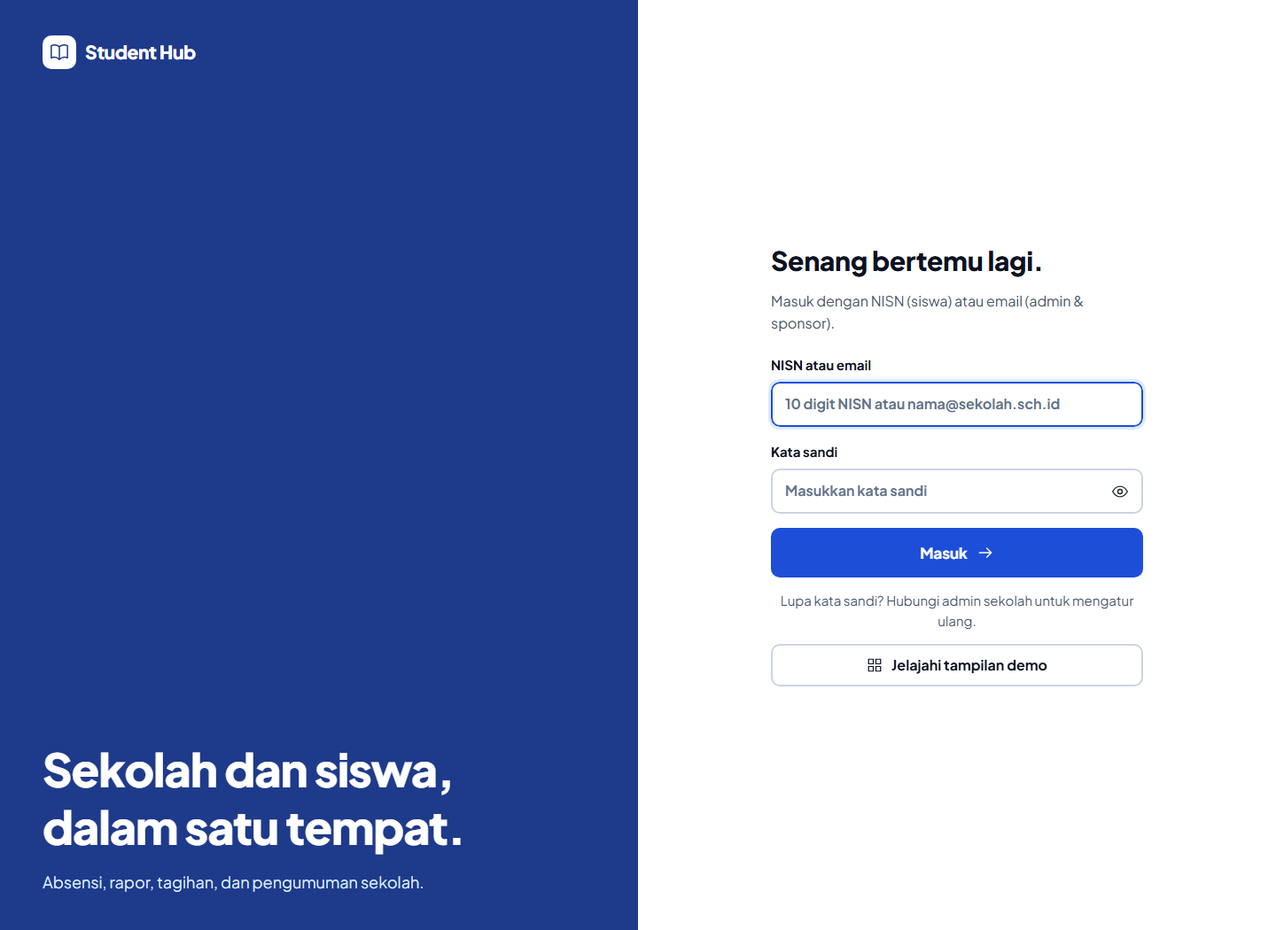
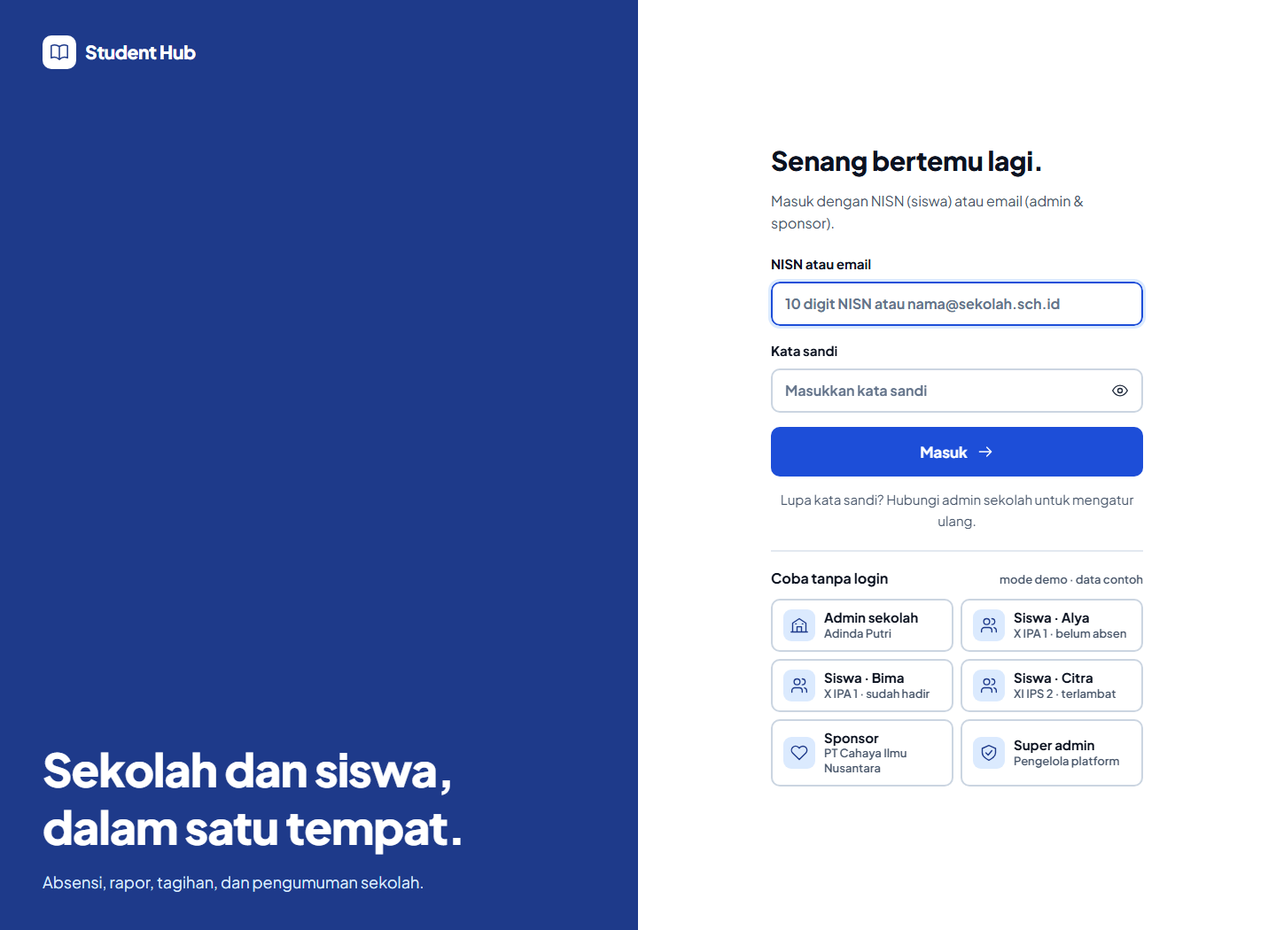
feat: tombol demo sekali klik per peran di halaman login (admin sekolah, 3 siswa, sponsor, super admin)
Persona demo disimulasikan di browser tanpa akun & tanpa menyentuh database. Tiga siswa memiliki status absen berbeda (belum absen, hadir, terlambat) agar alur absensi mudah didemokan. Persona dapat diganti dari banner demo.

Changed region(s): [[0.5938, 0.2743, 0.9062, 0.8533], [0.5938, 0.2133, 0.8438, 0.2438], [0.5938, 0.1524, 0.8125, 0.1829]]

diff --git a/src/components/hub/hub.tsx b/src/components/hub/hub.tsx
@@ -2,9 +2,10 @@
 import Link from "next/link";
 import { useEffect, useState } from "react";
 import { api } from "@/lib/frontend/api";
+import { DEMO_PERSONAS, demoPersona, demoPersonaForUser } from "@/lib/frontend/demo-personas";
 import { modulesFor, roleLabels } from "@/lib/frontend/modules";
 import { initials } from "@/lib/frontend/format";
-import type { Identity, Module, Role } from "@/lib/frontend/types";
+import type { Identity, Module } from "@/lib/frontend/types";
 import { HubContext } from "./context";
 import { Brand, Icon } from "./icon";
 import { Login } from "./login";
@@ -13,7 +14,6 @@ import { StudentHome } from "./student-home";
 import { AttendancePage } from "./attendance/attendance-page";
 import { Workspace } from "./workspace";
 
-const demoIdentity: Identity = { user: { id: "demo", name: "Adinda Putri", email: "adinda@sekolah.sch.id", role: "SCHOOL_ADMIN", mustChangePassword: false, totpEnrollmentRequired: false }, school: { id: "demo", name: "SMA Cendekia Nusantara", timezone: "WIB" }, sponsor: null, permissions: [] };
 function useNavigationData(me: Identity | null, demo: boolean) {
   const [schools, setSchools] = useState<{ id: string; name: string }[]>([]);
   const [unread, setUnread] = useState(0);
@@ -37,8 +37,8 @@ export function Hub({ section }: { section: string }) {
   async function reloadMe() { const result = await api("/auth/me"); setMe(result.data as Identity); setReady(true); }
   useEffect(() => {
     let active = true;
-    const storedRole = sessionStorage.getItem("studenthub_demo_role") as Role | null;
-    if (sessionStorage.getItem("studenthub_demo") === "true") { Promise.resolve().then(() => { if (active) { setDemo(true); setMe({ ...demoIdentity, user: { ...demoIdentity.user, role: storedRole && storedRole in roleLabels ? storedRole : "SCHOOL_ADMIN" } }); setReady(true); } }); }
+    const storedPersona = sessionStorage.getItem("studenthub_demo_role");
+    if (sessionStorage.getItem("studenthub_demo") === "true") { Promise.resolve().then(() => { if (active) { setDemo(true); setMe(demoPersona(storedPersona).identity); setReady(true); } }); }
     else api("/auth/me").then(r => { if (active) setMe(r.data as Identity); }).catch(() => {}).finally(() => { if (active) setReady(true); });
     return () => { active = false; };
   }, []);
@@ -49,7 +49,7 @@ export function Hub({ section }: { section: string }) {
     return () => window.removeEventListener("studenthub:expired", expired);
   }, []);
   useEffect(() => { if (!notice) return; const timer = setTimeout(() => setNotice(""), 4500); return () => clearTimeout(timer); }, [notice]);
-  function startDemo() { sessionStorage.setItem("studenthub_demo", "true"); setDemo(true); setMe(demoIdentity); }
+  function startDemo(key: string) { sessionStorage.setItem("studenthub_demo", "true"); sessionStorage.setItem("studenthub_demo_role", key); setDemo(true); setMe(demoPersona(key).identity); }
   async function logout() {
     try { if (!demo) await api("/auth/logout", { method: "POST" }); sessionStorage.removeItem("studenthub_demo"); sessionStorage.removeItem("studenthub_demo_role"); sessionStorage.removeItem("studenthub_school"); setDemo(false); setMe(null); setSchoolId(""); }
     catch (e) { setNotice(e instanceof Error ? e.message : "Gagal keluar."); }
@@ -64,10 +64,10 @@ export function Hub({ section }: { section: string }) {
     {menu && <button className="sidebar-overlay" aria-label="Tutup navigasi" onClick={() => setMenu(false)} />}
     <Sidebar me={me} modules={modules} current={current} home={home} unread={unread} open={menu} onNavigate={() => setMenu(false)} onLogout={logout} />
     <div className="main-shell"><header className="topbar"><button className="icon-button mobile-menu" aria-label="Buka navigasi" onClick={() => setMenu(true)}><Icon name="menu" /></button><strong className="topbar-title">{current?.title ?? "Beranda"}</strong><div className="topbar-tools"><Link className="icon-button notification-button" href="/hub/notifications" aria-label={unread > 0 ? `Notifikasi, ${unread} belum dibaca` : "Notifikasi"}><Icon name="bell" />{unread > 0 && <i />}</Link><Link className="avatar small" href="/hub/security" aria-label="Keamanan akun">{initials(me.user.name)}</Link></div></header>
-      <main id="main-content" className="page-content">{demo && <DemoBanner me={me} onRole={role => { sessionStorage.setItem("studenthub_demo_role", role); setMe({ ...demoIdentity, user: { ...demoIdentity.user, role } }); }} onExit={logout} />}
+      <main id="main-content" className="page-content">{demo && <DemoBanner me={me} onPersona={key => { sessionStorage.setItem("studenthub_demo_role", key); setMe(demoPersona(key).identity); }} onExit={logout} />}
       {me.user.role === "SUPER_ADMIN" && current?.paths.some(p => p.startsWith("/school/")) && <label className="scope-select">Sekolah yang dikelola<select value={schoolId} onChange={e => { setSchoolId(e.target.value); sessionStorage.setItem("studenthub_school", e.target.value); }}><option value="">Pilih sekolah terlebih dahulu</option>{schools.map(s => <option key={s.id} value={s.id}>{s.name}</option>)}</select></label>}
       {restricted && <div className="info-message">{me.user.mustChangePassword ? "Sebelum melanjutkan, ganti kata sandi awal untuk mengamankan akunmu." : "Aktifkan autentikasi dua langkah terlebih dahulu untuk mengamankan akun super admin."}</div>}
-      {current?.key === "my-attendance" ? <AttendancePage /> : current ? <Workspace key={`${current.key}-${schoolId}-${demo}-${me.user.role}`} module={current} /> : home ? me.user.role === "STUDENT" ? <StudentHome /> : <Dashboard /> : <div className="empty-state"><Icon name="search" size={35} /><h2>Halaman tidak ditemukan</h2><Link className="button primary" href="/hub">Kembali ke beranda</Link></div>}
+      {current?.key === "my-attendance" ? <AttendancePage key={me.user.id} /> : current ? <Workspace key={`${current.key}-${schoolId}-${demo}-${me.user.id}`} module={current} /> : home ? me.user.role === "STUDENT" ? <StudentHome key={me.user.id} /> : <Dashboard key={me.user.id} /> : <div className="empty-state"><Icon name="search" size={35} /><h2>Halaman tidak ditemukan</h2><Link className="button primary" href="/hub">Kembali ke beranda</Link></div>}
       </main></div>
     {notice && <div className="toast" role="status">{notice}</div>}
   </div></HubContext.Provider>;
@@ -79,6 +79,6 @@ function Sidebar({ me, modules, current, home, unread, open, onNavigate, onLogou
     <nav aria-label="Navigasi utama"><Link onClick={onNavigate} className={`nav-item ${home ? "active" : ""}`} href="/hub" aria-current={home ? "page" : undefined}><Icon name="grid" />Beranda</Link>{groups.map(group => <div className="nav-group" key={group}><span className="nav-label">{group}</span>{modules.filter(m => m.group === group).map(m => <Link key={m.key} onClick={onNavigate} className={`nav-item ${current?.key === m.key ? "active" : ""}`} aria-current={current?.key === m.key ? "page" : undefined} href={`/hub/${m.key}`}><Icon name={m.icon} /><span>{m.title}</span>{m.key === "notifications" && unread > 0 && <b className="count-badge">{unread}</b>}</Link>)}</div>)}</nav>
     <button className="account-button" onClick={() => void onLogout()}><span className="avatar">{initials(me.user.name)}</span><span><strong>{me.user.name}</strong><small>Keluar dari akun</small></span><Icon name="logout" size={18} /></button></aside>;
 }
-function DemoBanner({ me, onRole, onExit }: { me: Identity; onRole: (role: Role) => void; onExit: () => Promise<void> }) {
-  return <div className="demo-banner"><span><Icon name="spark" size={16} /> Mode demo · data contoh</span><select aria-label="Peran demo" value={me.user.role} onChange={e => onRole(e.target.value as Role)}>{Object.entries(roleLabels).map(([value, text]) => <option key={value} value={value}>{text}</option>)}</select><button className="text-button" onClick={() => void onExit()}>Keluar demo <Icon name="arrow" size={15} /></button></div>;
+function DemoBanner({ me, onPersona, onExit }: { me: Identity; onPersona: (key: string) => void; onExit: () => Promise<void> }) {
+  return <div className="demo-banner"><span><Icon name="spark" size={16} /> Mode demo · data contoh</span><select aria-label="Peran demo" value={demoPersonaForUser(me.user.id)?.key ?? "SCHOOL_ADMIN"} onChange={e => onPersona(e.target.value)}>{DEMO_PERSONAS.map(p => <option key={p.key} value={p.key}>{p.label}</option>)}</select><button className="text-button" onClick={() => void onExit()}>Keluar demo <Icon name="arrow" size={15} /></button></div>;
 }

diff --git a/tests/browser/frontend.spec.ts b/tests/browser/frontend.spec.ts
@@ -14,7 +14,7 @@ async function mockSession(page: Page) {
 test("demo: navigasi, pencarian, detail, formulir, dan penolakan simpan", async ({ page }) => {
   const errors: string[] = []; page.on("pageerror", e => errors.push(e.message));
   await page.goto("/");
-  await page.getByRole("button", { name: "Jelajahi tampilan demo" }).click();
+  await page.getByRole("button", { name: "Masuk demo sebagai Admin sekolah" }).click();
   await expect(page.getByRole("heading", { name: /Selamat datang/ })).toBeVisible();
   await page.getByRole("navigation").getByRole("link", { name: "Data siswa" }).click();
   await expect(page.getByText("Alya Putri Ramadhani", { exact: true })).toBeVisible();
@@ -34,7 +34,7 @@ test("mobile: login, dasbor, menu, dan formulir tanpa luapan horizontal", async 
   await page.setViewportSize({ width: 390, height: 844 });
   await page.goto("/");
   await expect(page.getByRole("heading", { name: "Senang bertemu lagi." })).toBeVisible();
-  await page.getByRole("button", { name: "Jelajahi tampilan demo" }).click();
+  await page.getByRole("button", { name: "Masuk demo sebagai Admin sekolah" }).click();
   await expect(page.getByRole("heading", { name: /Selamat datang/ })).toBeVisible();
   expect(await page.evaluate(() => document.documentElement.scrollWidth <= innerWidth)).toBe(true);
   await page.getByRole("button", { name: "Buka navigasi" }).click();
@@ -46,7 +46,7 @@ test("mobile: login, dasbor, menu, dan formulir tanpa luapan horizontal", async 
   await page.screenshot({ path: "test-results/frontend-mobile-form.png", fullPage: true });
 });
 test("peran demo dipertahankan ketika pindah halaman", async ({ page }) => {
-  await page.goto("/"); await page.getByRole("button", { name: "Jelajahi tampilan demo" }).click();
+  await page.goto("/"); await page.getByRole("button", { name: "Masuk demo sebagai Admin sekolah" }).click();
   for (const [role, menu, heading] of [["SPONSOR", "Kampanye saya", "Kampanye saya"], ["STUDENT", "Rapor saya", "Rapor saya"], ["SUPER_ADMIN", "Sekolah", "Sekolah"]]) {
     await page.getByRole("combobox", { name: "Peran demo" }).selectOption(role!);
     await page.getByRole("navigation").getByRole("link", { name: menu!, exact: true }).click();
@@ -115,7 +115,7 @@ test("siswa (HP): beranda ringkas, alur absen wajib izin lokasi & kamera sebelum
   const context = await browser.newContext({ viewport: { width: 390, height: 844 }, userAgent: "Mozilla/5.0 (Linux; Android 14) AppleWebKit/537.36 Chrome/140.0 Mobile Safari/537.36" });
   const page = await context.newPage();
   await page.goto("/");
-  await page.getByRole("button", { name: "Jelajahi tampilan demo" }).click();
+  await page.getByRole("button", { name: "Masuk demo sebagai Admin sekolah" }).click();
   await page.getByRole("combobox", { name: "Peran demo" }).selectOption("STUDENT");
   await page.goto("/hub");
   await expect(page.getByRole("navigation", { name: "Menu siswa" }).getByRole("link")).toHaveCount(6);
@@ -129,4 +129,16 @@ test("siswa (HP): beranda ringkas, alur absen wajib izin lokasi & kamera sebelum
   await flow.getByRole("button", { name: "Tutup absensi" }).click();
   await expect(page.getByRole("heading", { name: "Riwayat", exact: false })).toBeVisible();
   await context.close();
+});
+test("login: tombol demo per persona (admin, 3 siswa, sponsor, super admin) langsung masuk ke peran itu", async ({ page }) => {
+  const cases: [string, RegExp | string][] = [["Admin sekolah", /Selamat datang, Adinda/], ["Siswa · Alya", "Alya Putri Ramadhani"], ["Siswa · Bima", "Bima Aditya Pratama"], ["Siswa · Citra", "Citra Ayu Lestari"], ["Sponsor", /Selamat datang, Rizky/], ["Super admin", /Selamat datang, Dimas/]];
+  for (const [label, heading] of cases) {
+    await page.goto("/");
+    await page.getByRole("button", { name: `Masuk demo sebagai ${label}` }).click();
+    await expect(page.getByRole("heading", { level: 1, name: heading })).toBeVisible();
+    await page.getByRole("button", { name: "Keluar demo" }).click();
+  }
+  await page.goto("/");
+  await page.getByRole("button", { name: "Masuk demo sebagai Siswa · Bima" }).click();
+  await expect(page.getByText("Sudah absen pukul 06:42")).toBeVisible();
 });

diff --git a/src/lib/frontend/demo-personas.ts b/src/lib/frontend/demo-personas.ts
@@ -1,0 +1,51 @@
+import type { TodayDto } from "@/lib/attendance/student-schemas";
+import { demoToday } from "./demo";
+import type { Identity, Role } from "./types";
+
+/**
+ * Persona mode demo: "masuk" sebagai peran tertentu tanpa akun & tanpa kata sandi. Semua data contoh
+ * disimulasikan di browser; tidak ada permintaan ke database. Nama & sekolah fiktif.
+ */
+export interface DemoPersona {
+  readonly key: string;
+  readonly label: string;
+  readonly caption: string;
+  readonly identity: Identity;
+  readonly className?: string;
+  readonly todayRecord?: TodayDto["record"];
+}
+
+const SCHOOL = { id: "demo-school", name: "SMA Cendekia Nusantara", timezone: "WIB" };
+
+function persona(key: string, label: string, caption: string, role: Role, name: string, extra: Partial<Identity> & Pick<DemoPersona, "className" | "todayRecord"> = {}): DemoPersona {
+  const { className, todayRecord, ...identity } = extra;
+  return {
+    key, label, caption, className, todayRecord,
+    identity: { user: { id: `demo:${key}`, name, email: null, role, mustChangePassword: false, totpEnrollmentRequired: false }, school: role === "SCHOOL_ADMIN" || role === "STUDENT" ? SCHOOL : null, sponsor: null, permissions: [], ...identity },
+  };
+}
+
+export const DEMO_PERSONAS: readonly DemoPersona[] = [
+  persona("SCHOOL_ADMIN", "Admin sekolah", "Adinda Putri", "SCHOOL_ADMIN", "Adinda Putri"),
+  persona("STUDENT", "Siswa · Alya", "X IPA 1 · belum absen", "STUDENT", "Alya Putri Ramadhani", { className: "X IPA 1" }),
+  persona("STUDENT_BIMA", "Siswa · Bima", "X IPA 1 · sudah hadir", "STUDENT", "Bima Aditya Pratama", { className: "X IPA 1", todayRecord: { id: "demo-att-bima", status: "HADIR", source: "CHECKIN", checkInTimeLocal: "06:42", lateMinutes: null } }),
+  persona("STUDENT_CITRA", "Siswa · Citra", "XI IPS 2 · terlambat", "STUDENT", "Citra Ayu Lestari", { className: "XI IPS 2", todayRecord: { id: "demo-att-citra", status: "TERLAMBAT", source: "CHECKIN", checkInTimeLocal: "07:31", lateMinutes: 31 } }),
+  persona("SPONSOR", "Sponsor", "PT Cahaya Ilmu Nusantara", "SPONSOR", "Rizky Pratama", { sponsor: { id: "demo-sponsor", companyName: "PT Cahaya Ilmu Nusantara" } }),
+  persona("SUPER_ADMIN", "Super admin", "Pengelola platform", "SUPER_ADMIN", "Dimas Wicaksono"),
+];
+
+/** Persona berdasarkan kunci; kunci tak dikenal -> admin sekolah. */
+export function demoPersona(key: string | null): DemoPersona {
+  return DEMO_PERSONAS.find(p => p.key === key) ?? DEMO_PERSONAS[0]!;
+}
+
+export function demoPersonaForUser(userId: string): DemoPersona | undefined {
+  return DEMO_PERSONAS.find(p => p.identity.user.id === userId);
+}
+
+/** Status absen hari ini untuk siswa demo (tiap siswa punya kondisi berbeda). */
+export function demoTodayFor(key: string): TodayDto {
+  const base = demoToday as unknown as TodayDto;
+  const record = demoPersona(key).todayRecord ?? null;
+  return record ? { ...base, record, canCheckIn: false, blockReason: "ALREADY_CHECKED_IN" } : base;
+}

diff --git a/src/components/hub/login.tsx b/src/components/hub/login.tsx
@@ -2,9 +2,10 @@
 import { useState, type FormEvent } from "react";
 import { api, ApiError } from "@/lib/frontend/api";
 import { loginDeviceId } from "@/lib/frontend/attendance";
+import { DEMO_PERSONAS } from "@/lib/frontend/demo-personas";
 import { Brand, Icon } from "./icon";
 
-export function Login({ onLogin, onDemo }: { onLogin: () => Promise<void>; onDemo: () => void }) {
+export function Login({ onLogin, onDemo }: { onLogin: () => Promise<void>; onDemo: (personaKey: string) => void }) {
   const [busy, setBusy] = useState(false);
   const [error, setError] = useState("");
   const [totp, setTotp] = useState(false);
@@ -28,6 +29,15 @@ export function Login({ onLogin, onDemo }: { onLogin: () => Promise<void>; onDem
       <label className="field">Kata sandi<span className="password-input"><input name="password" type={visible ? "text" : "password"} autoComplete="current-password" placeholder="Masukkan kata sandi" required /><button type="button" aria-label={visible ? "Sembunyikan kata sandi" : "Tampilkan kata sandi"} onClick={() => setVisible(!visible)}><Icon name="eye" size={20} /></button></span></label>
       {totp && <label className="field">Kode autentikator<input name="totpCode" inputMode="numeric" pattern="[0-9]{6}" maxLength={6} placeholder="6 digit kode verifikasi" autoComplete="one-time-code" required /></label>}
       {error && <div className="error-message" role="alert">{error}</div>}<button className="button primary block large" disabled={busy}>{busy ? "Sedang masuk…" : "Masuk"}<Icon name="arrow" size={20} /></button>
-    </form><p className="login-help">Lupa kata sandi? Hubungi admin sekolah untuk mengatur ulang.</p><button className="button secondary block" onClick={onDemo}><Icon name="grid" size={18} />Jelajahi tampilan demo</button></div></section>
+    </form><p className="login-help">Lupa kata sandi? Hubungi admin sekolah untuk mengatur ulang.</p><DemoPicker onDemo={onDemo} /></div></section>
   </main>;
+}
+
+const PERSONA_ICONS: Record<string, string> = { SCHOOL_ADMIN: "school", STUDENT: "users", SPONSOR: "heart", SUPER_ADMIN: "shield" };
+
+/** Masuk demo sekali klik (tanpa kata sandi, data contoh di browser). */
+function DemoPicker({ onDemo }: { onDemo: (personaKey: string) => void }) {
+  return <section className="demo-picker" aria-labelledby="demo-title"><h3 id="demo-title">Coba tanpa login <small>mode demo · data contoh</small></h3>
+    <div className="demo-grid">{DEMO_PERSONAS.map(p => <button key={p.key} type="button" className="demo-persona" aria-label={`Masuk demo sebagai ${p.label}`} onClick={() => onDemo(p.key)}><span className="demo-icon"><Icon name={PERSONA_ICONS[p.identity.user.role] ?? "users"} size={20} /></span><span><strong>{p.label}</strong><small>{p.caption}</small></span></button>)}</div>
+  </section>;
 }

diff --git a/src/components/hub/student-home.tsx b/src/components/hub/student-home.tsx
@@ -4,7 +4,8 @@ import { useEffect, useState } from "react";
 import type { TodayDto } from "@/lib/attendance/student-schemas";
 import { api } from "@/lib/frontend/api";
 import { schoolClock, todayHeadline, type Headline } from "@/lib/frontend/attendance";
-import { demoProfile, demoRows, demoToday } from "@/lib/frontend/demo";
+import { demoRows } from "@/lib/frontend/demo";
+import { demoPersonaForUser, demoTodayFor } from "@/lib/frontend/demo-personas";
 import { display, initials } from "@/lib/frontend/format";
 import type { Row } from "@/lib/frontend/types";
 import { useHub } from "./context";
@@ -24,14 +25,14 @@ const TILES = [
 ] as const;
 
 function useStudentHome() {
-  const { demo } = useHub();
+  const { demo, me } = useHub();
   const [className, setClassName] = useState<string | null>(null);
   const [headline, setHeadline] = useState<Headline | null>(null);
   const [news, setNews] = useState<Row[] | null>(null);
   useEffect(() => {
     let active = true;
     if (demo) {
-      Promise.resolve().then(() => { if (!active) return; setClassName(demoProfile.className); setHeadline(todayHeadline(demoToday)); setNews((demoRows("/notifications") as Row[]).slice(0, 3)); });
+      Promise.resolve().then(() => { if (!active) return; const persona = demoPersonaForUser(me.user.id); setClassName(persona?.className ?? null); setHeadline(todayHeadline(demoTodayFor(persona?.key ?? "STUDENT"))); setNews((demoRows("/notifications") as Row[]).slice(0, 3)); });
       return () => { active = false; };
     }
     api("/student/profile").then(r => { if (active) setClassName((r.data as { className: string | null }).className); }).catch(() => {});
@@ -39,7 +40,7 @@ function useStudentHome() {
       .catch(() => { if (active) setHeadline({ tone: "neutral", title: "Absen lewat HP", note: "Buka Student Hub dari HP untuk absen." }); });
     api("/notifications?limit=3").then(r => { if (active) setNews(r.data as Row[]); }).catch(() => { if (active) setNews([]); });
     return () => { active = false; };
-  }, [demo]);
+  }, [demo, me.user.id]);
   return { className, headline, news };
 }
 

diff --git a/src/lib/frontend/demo-personas.test.ts b/src/lib/frontend/demo-personas.test.ts
@@ -1,0 +1,33 @@
+import { test } from "node:test";
+import assert from "node:assert/strict";
+import { DEMO_PERSONAS, demoPersona, demoPersonaForUser, demoTodayFor } from "./demo-personas";
+
+test("persona demo: admin sekolah, tiga siswa, sponsor, super admin — kunci unik", () => {
+  const roles = DEMO_PERSONAS.map(p => p.identity.user.role);
+  assert.deepEqual(roles, ["SCHOOL_ADMIN", "STUDENT", "STUDENT", "STUDENT", "SPONSOR", "SUPER_ADMIN"]);
+  assert.equal(new Set(DEMO_PERSONAS.map(p => p.key)).size, DEMO_PERSONAS.length);
+});
+
+test("identitas persona sesuai peran: sekolah untuk admin/siswa, perusahaan untuk sponsor", () => {
+  assert.equal(demoPersona("SPONSOR").identity.sponsor?.companyName, "PT Cahaya Ilmu Nusantara");
+  assert.equal(demoPersona("SPONSOR").identity.school, null);
+  assert.equal(demoPersona("SUPER_ADMIN").identity.school, null);
+  assert.equal(demoPersona("STUDENT").identity.school?.name, "SMA Cendekia Nusantara");
+});
+
+test("kunci tak dikenal / kosong jatuh ke admin sekolah; persona dapat ditemukan dari id user", () => {
+  assert.equal(demoPersona(null).key, "SCHOOL_ADMIN");
+  assert.equal(demoPersona("TIDAK_ADA").key, "SCHOOL_ADMIN");
+  const bima = demoPersona("STUDENT_BIMA");
+  assert.equal(demoPersonaForUser(bima.identity.user.id)?.key, "STUDENT_BIMA");
+  assert.equal(demoPersonaForUser("user-asli"), undefined);
+});
+
+test("status absen hari ini berbeda per siswa: belum absen, hadir, terlambat", () => {
+  assert.equal(demoTodayFor("STUDENT").canCheckIn, true);
+  assert.equal(demoTodayFor("STUDENT").record, null);
+  assert.deepEqual(demoTodayFor("STUDENT_BIMA").record, { id: "demo-att-bima", status: "HADIR", source: "CHECKIN", checkInTimeLocal: "06:42", lateMinutes: null });
+  assert.equal(demoTodayFor("STUDENT_BIMA").blockReason, "ALREADY_CHECKED_IN");
+  assert.equal(demoTodayFor("STUDENT_CITRA").record?.status, "TERLAMBAT");
+  assert.equal(demoTodayFor("STUDENT_CITRA").canCheckIn, false);
+});

diff --git a/src/components/hub/attendance/attendance-page.tsx b/src/components/hub/attendance/attendance-page.tsx
@@ -4,7 +4,8 @@ import type { HistoryDto, TodayDto } from "@/lib/attendance/student-schemas";
 import { isMobileBrowserAgent } from "@/lib/auth/device";
 import { api, ApiError } from "@/lib/frontend/api";
 import { todayHeadline } from "@/lib/frontend/attendance";
-import { demoHistory, demoToday } from "@/lib/frontend/demo";
+import { demoHistory } from "@/lib/frontend/demo";
+import { demoPersonaForUser, demoTodayFor } from "@/lib/frontend/demo-personas";
 import { display, label } from "@/lib/frontend/format";
 import { useHub } from "../context";
 import { Status } from "../data-view";
@@ -15,15 +16,15 @@ import { CheckInFlow } from "./check-in-flow";
 type TodayState = { kind: "loading" } | { kind: "ready"; today: TodayDto } | { kind: "error"; code: string; message: string };
 
 function useToday(version: number): TodayState {
-  const { demo } = useHub();
+  const { demo, me } = useHub();
   const [state, setState] = useState<TodayState>({ kind: "loading" });
   useEffect(() => {
     let active = true;
-    const load = demo ? Promise.resolve(demoToday as unknown as TodayDto) : api("/student/attendance/today").then(r => r.data as TodayDto);
+    const load = demo ? Promise.resolve(demoTodayFor(demoPersonaForUser(me.user.id)?.key ?? "STUDENT")) : api("/student/attendance/today").then(r => r.data as TodayDto);
     load.then(today => { if (active) setState({ kind: "ready", today }); })
       .catch(e => { if (active) setState({ kind: "error", code: e instanceof ApiError ? e.code : "", message: e instanceof Error ? e.message : "Status absensi belum dapat dimuat." }); });
     return () => { active = false; };
-  }, [demo, version]);
+  }, [demo, me.user.id, version]);
   return state;
 }
 

diff --git a/src/styles/shell.css b/src/styles/shell.css
@@ -71,3 +71,14 @@
   .login-story { display: none; }
   .login-brand { display: block; }
 }
+
+/* Pilihan persona demo di bawah form login */
+.demo-picker { display: flex; flex-direction: column; gap: 10px; margin-top: 8px; padding-top: 18px; border-top: 2px solid var(--line-soft); }
+.demo-picker h3 { display: flex; align-items: baseline; justify-content: space-between; flex-wrap: wrap; gap: 6px; font-size: 16px; }
+.demo-picker h3 small { font-size: 13px; font-weight: 600; color: var(--muted); }
+.demo-grid { display: grid; grid-template-columns: repeat(2, minmax(0, 1fr)); gap: 8px; }
+.demo-persona { display: flex; align-items: center; gap: 10px; min-height: 60px; padding: 10px 12px; border: 2px solid var(--line); border-radius: var(--radius-sm); background: var(--paper); text-align: left; }
+.demo-persona:hover { border-color: var(--primary); background: #f8fbff; }
+.demo-persona strong { display: block; font-size: 15px; line-height: 1.25; }
+.demo-persona small { display: block; font-size: 13px; line-height: 1.3; color: var(--muted); font-weight: 600; }
+.demo-icon { display: grid; place-items: center; width: 36px; height: 36px; border-radius: 9px; background: var(--primary-soft); color: var(--primary-ink); flex-shrink: 0; }

diff --git a/src/lib/frontend/demo.ts b/src/lib/frontend/demo.ts
@@ -28,4 +28,3 @@ export function demoRows(path: string): unknown {
 /** Status absen hari ini untuk mode demo (titik sekolah disimulasikan di sekitar pengguna saat alur berjalan). */
 export const demoToday = { date: "2026-09-25", serverTime: "2026-09-25T00:10:00.000Z", timezone: "WIB", ianaTimezone: "Asia/Jakarta", schoolDay: { isSchoolDay: true, reason: "SCHOOL_DAY", holidayName: null }, window: { opensAt: "06:00", lateAfter: "07:15", closesAt: "10:00", state: "OPEN" }, geofence: { radiusM: 150, maxAccuracyM: 100, latitude: -6.1754, longitude: 106.8272 }, record: null, pendingLeave: null, canCheckIn: true, blockReason: null } as const;
 export const demoHistory = { month: "2026-09", days: ["22", "23", "24"].map((d, i) => ({ date: `2026-09-${d}`, status: i === 1 ? "TERLAMBAT" : "HADIR", source: "CHECKIN", checkInTimeLocal: i === 1 ? "07:26" : `06:4${i}`, lateMinutes: i === 1 ? 26 : null, leaveRequestId: null })), nonSchoolDays: [], summary: { recorded: 3, present: 2, late: 1, izin: 0, sakit: 0, alpha: 0, presentPct: 100 } };
-export const demoProfile = { name: "Alya Putri Ramadhani", nisn: "0098765432", nis: "2026001", className: "X IPA 1", school: { name: "SMA Cendekia Nusantara" }, status: "ACTIVE" };

diff --git a/docs/FRONTEND.md b/docs/FRONTEND.md
@@ -8,7 +8,7 @@ Frontend web responsif untuk admin sekolah, super admin, sponsor, dan siswa. Dib
 pnpm dev
 ```
 
-Buka `http://localhost:3030`. Masuk menggunakan akun yang tersedia, atau pilih **Jelajahi tampilan demo** untuk melihat data contoh tanpa mengubah database. Pemilih peran di banner demo dapat digunakan untuk mengeksplorasi navigasi setiap peran. Mode demo tidak menyimpan perubahan.
+Buka `http://localhost:3030`. Masuk menggunakan akun yang tersedia, atau pilih salah satu tombol **Coba tanpa login** di bawah form: Admin sekolah, tiga siswa (Alya belum absen, Bima sudah hadir, Citra terlambat), Sponsor, atau Super admin. Mode demo memakai data contoh di browser, tidak menyentuh database, dan tidak menyimpan perubahan; persona dapat diganti dari banner demo.
 
 ## Halaman
 

diff --git a/docs/frontend/screenshots/README.md b/docs/frontend/screenshots/README.md
@@ -15,8 +15,9 @@ Semua screenshot menggunakan **mode demo**. Gambar diambil langsung dari browser
 | Formulir mobile | [Buka](09-formulir-mobile.png) |
 | Beranda siswa (HP) | [Buka](10-beranda-siswa-mobile.png) |
 | Izin lokasi & kamera sebelum absen (HP) | [Buka](11-izin-absensi-mobile.png) |
+| Login + tombol demo per peran (HP) | [Buka](12-login-demo-mobile.png) |
 
-Screenshot 10–11 diambil manual dengan emulasi HP (Pixel 7). Untuk mengambil ulang 01–09, jalankan server dengan `pnpm dev`, lalu:
+Screenshot 10–12 diambil manual dengan emulasi HP (Pixel 7). Untuk mengambil ulang 01–09, jalankan server dengan `pnpm dev`, lalu:
 
 ```bash
 node scripts/frontend-screenshots.mjs
